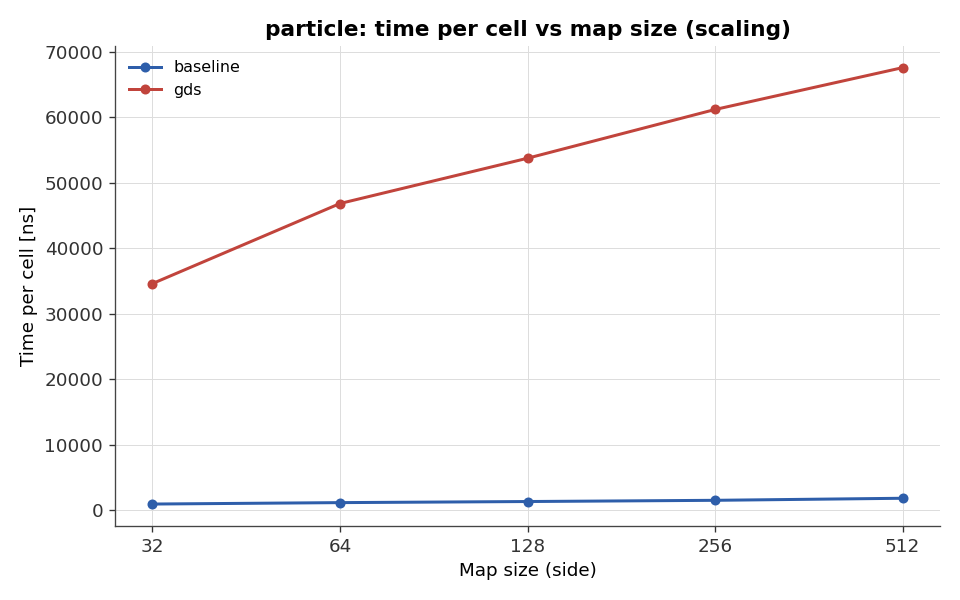
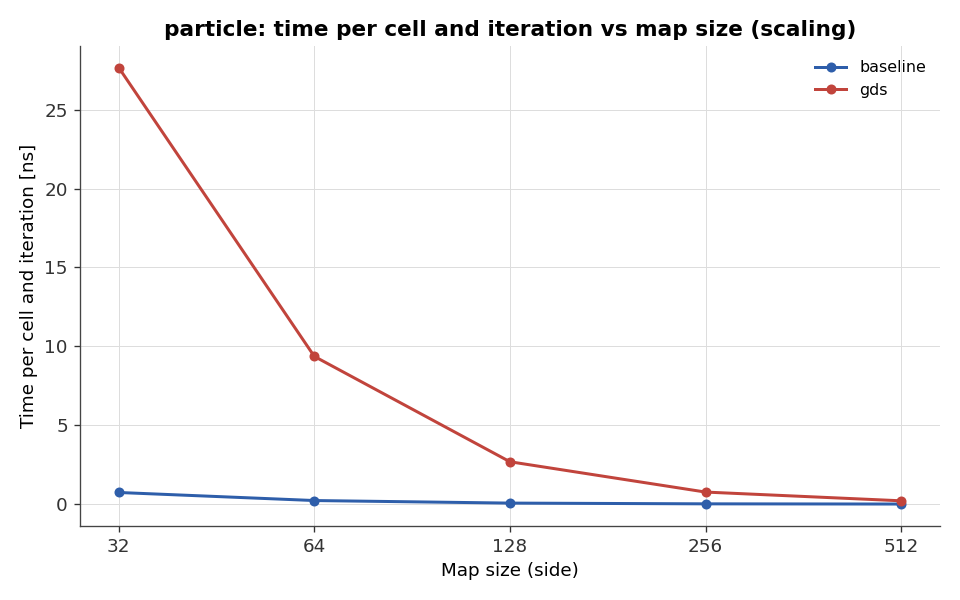
plot fixes

diff --git a/data_analysis/analyze_results.py b/data_analysis/analyze_results.py
@@ -86,6 +86,11 @@ IMPL_STYLE = {
     "optimized": {"color": "#3C9D6B", "linestyle": "-"},
 }
 
+ITERATIONS = {
+    "pipe": {32: 2, 64: 8, 128: 32, 256: 128, 512: 512},
+    "particle": {32: 1250, 64: 5000, 128: 20000, 256: 80000, 512: 320000},
+}
+
 
 
 # ŚCIEŻKI PER KATEGORIA
@@ -444,8 +449,9 @@ def plot_time_scaling(algo: str) -> None:
         return
     agg = _agg_timing(df).copy()
     agg["cells"] = agg["map_width"].astype(float) ** 2
-    agg["ns_per_cell"] = agg["mean_us"] * 1000.0 / agg["cells"]
-    _plot_vs_mapsize(algo, agg, "ns_per_cell", "Time per cell [ns]", "time per cell vs map size (scaling)", f"{algo}_time_scaling", unit_divisor=1.0)
+    agg["iters"] = agg["map_width"].map(ITERATIONS[algo]).astype(float)
+    agg["ns_per_cell"] = agg["mean_us"] * 1000.0 / (agg["cells"] * agg["iters"])
+    _plot_vs_mapsize(algo, agg, "ns_per_cell", "Time per cell and iteration [ns]", "time per cell and iteration vs map size (scaling)", f"{algo}_time_scaling", unit_divisor=1.0)
 
 
 # 3.3. PRZYŚPIESZENIE
